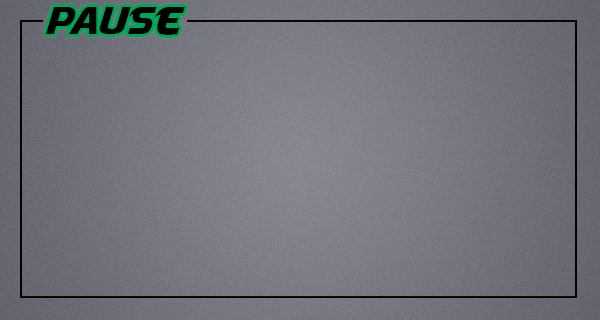
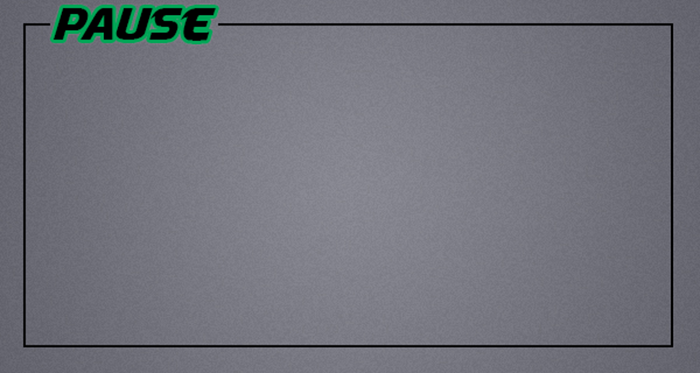
Media player in pause menu

diff --git a/Qt/GuessWho/MainWindow.cpp b/Qt/GuessWho/MainWindow.cpp
@@ -129,6 +129,17 @@ void MainWindow::gameWindow()
 
 	player1GameWindow = new GameWindow(this, gameLogic->getPlayer1Reference());
 	player2GameWindow = new GameWindow(this, gameLogic->getPlayer2Reference());
+	gameWindowCreate = true;
+
+	//connect media player
+	player1GameWindow->getActiveSongLabel()->setText(songNames.at(activeSong));
+	if (play == true)
+		player1GameWindow->getMuteButton()->setStyleSheet("background-image: url(./Photos/soundon.png);");
+	else
+		player1GameWindow->getMuteButton()->setStyleSheet("background-image: url(./Photos/soundoff.png);");
+	connect(player1GameWindow->getNextButton(), SIGNAL(clicked()), this, SLOT(nextSong()));
+	connect(player1GameWindow->getPrevButton(), SIGNAL(clicked()), this, SLOT(prevSong()));
+	connect(player1GameWindow->getMuteButton(), SIGNAL(clicked()), this, SLOT(playPause()));
 	
 	connect(this, SIGNAL(wKeyPressed()), player1GameWindow->getSideMenu()->getQuestionMenuBar(), SLOT(goUpTreeWidgetItem()));
 	connect(this, SIGNAL(sKeyPressed()), player1GameWindow->getSideMenu()->getQuestionMenuBar(), SLOT(goDownTreeWidgetItem()));
@@ -190,6 +201,7 @@ void MainWindow::returnToMenu() {
 		this->player2GameWindow->close();
 		delete player2GameWindow;
 		this->showMenuWindow();
+		gameWindowCreate = false;
 	}
 	else { //No
 		this->player1GameWindow->getPauseMenu()->show();
@@ -217,6 +229,8 @@ void MainWindow::nextSong()
 	}
 	songPlaylist.at(activeSong)->play();
 	menu->getActiveSongLabel()->setText(songNames.at(activeSong));
+	if(gameWindowCreate)
+		player1GameWindow->getActiveSongLabel()->setText(songNames.at(activeSong));
 }
 	
 void  MainWindow::prevSong()
@@ -228,6 +242,8 @@ void  MainWindow::prevSong()
 	}
 	songPlaylist.at(activeSong)->play();
 	menu->getActiveSongLabel()->setText(songNames.at(activeSong));
+	if (gameWindowCreate)
+		player1GameWindow->getActiveSongLabel()->setText(songNames.at(activeSong));
 }
 
 void MainWindow::playPause()
@@ -236,11 +252,29 @@ void MainWindow::playPause()
 	{
 		songPlaylist.at(activeSong)->play();
 		play = true;
+		connect(menu->getNextButton(), SIGNAL(clicked()), this, SLOT(nextSong()));
+		connect(menu->getPrevButton(), SIGNAL(clicked()), this, SLOT(prevSong()));
+		if (gameWindowCreate)
+		{
+			connect(player1GameWindow->getNextButton(), SIGNAL(clicked()), this, SLOT(nextSong()));
+			connect(player1GameWindow->getPrevButton(), SIGNAL(clicked()), this, SLOT(prevSong()));
+			player1GameWindow->getMuteButton()->setStyleSheet("background-image: url(./Photos/soundon.png);");
+		}
+		menu->getMuteButton()->setStyleSheet("background-image: url(./Photos/soundon.png);");
 	}
 	else
 	{
 		songPlaylist.at(activeSong)->stop();
 		play = false;
+		disconnect(menu->getNextButton(), SIGNAL(clicked()), this, SLOT(nextSong()));
+		disconnect(menu->getPrevButton(), SIGNAL(clicked()), this, SLOT(prevSong()));
+		if (gameWindowCreate)
+		{
+			disconnect(player1GameWindow->getNextButton(), SIGNAL(clicked()), this, SLOT(nextSong()));
+			disconnect(player1GameWindow->getPrevButton(), SIGNAL(clicked()), this, SLOT(prevSong()));
+			player1GameWindow->getMuteButton()->setStyleSheet("background-image: url(./Photos/soundoff.png);");
+		}
+		menu->getMuteButton()->setStyleSheet("background-image: url(./Photos/soundoff.png);");
 	}
 }
 
@@ -484,6 +518,7 @@ void MainWindow::gameOver(QString winner) {
 	player2GameWindow->close();
 	delete player1GameWindow;
 	delete player2GameWindow;
+	gameWindowCreate = false;
 
 	showMenuWindow();
 	QMessageBox::information(NULL, "Game over", "Le gagant est: " + winner, QMessageBox::Ok);

diff --git a/Qt/GuessWho/debug/moc_MediaPlayer.cpp b/Qt/GuessWho/debug/moc_MediaPlayer.cpp
@@ -21,8 +21,8 @@ QT_BEGIN_MOC_NAMESPACE
 QT_WARNING_PUSH
 QT_WARNING_DISABLE_DEPRECATED
 struct qt_meta_stringdata_MediaPlayer_t {
-    QByteArrayData data[3];
-    char stringdata0[23];
+    QByteArrayData data[1];
+    char stringdata0[12];
 };
 #define QT_MOC_LITERAL(idx, ofs, len) \
     Q_STATIC_BYTE_ARRAY_DATA_HEADER_INITIALIZER_WITH_OFFSET(len, \
@@ -31,12 +31,10 @@ struct qt_meta_stringdata_MediaPlayer_t {
     )
 static const qt_meta_stringdata_MediaPlayer_t qt_meta_stringdata_MediaPlayer = {
     {
-QT_MOC_LITERAL(0, 0, 11), // "MediaPlayer"
-QT_MOC_LITERAL(1, 12, 9), // "playPause"
-QT_MOC_LITERAL(2, 22, 0) // ""
+QT_MOC_LITERAL(0, 0, 11) // "MediaPlayer"
 
     },
-    "MediaPlayer\0playPause\0"
+    "MediaPlayer"
 };
 #undef QT_MOC_LITERAL
 
@@ -46,32 +44,21 @@ static const uint qt_meta_data_MediaPlayer[] = {
        7,       // revision
        0,       // classname
        0,    0, // classinfo
-       1,   14, // methods
+       0,    0, // methods
        0,    0, // properties
        0,    0, // enums/sets
        0,    0, // constructors
        0,       // flags
        0,       // signalCount
 
- // slots: name, argc, parameters, tag, flags
-       1,    0,   19,    2, 0x0a /* Public */,
-
- // slots: parameters
-    QMetaType::Void,
-
        0        // eod
 };
 
 void MediaPlayer::qt_static_metacall(QObject *_o, QMetaObject::Call _c, int _id, void **_a)
 {
-    if (_c == QMetaObject::InvokeMetaMethod) {
-        MediaPlayer *_t = static_cast<MediaPlayer *>(_o);
-        Q_UNUSED(_t)
-        switch (_id) {
-        case 0: _t->playPause(); break;
-        default: ;
-        }
-    }
+    Q_UNUSED(_o);
+    Q_UNUSED(_id);
+    Q_UNUSED(_c);
     Q_UNUSED(_a);
 }
 
@@ -97,17 +84,6 @@ void *MediaPlayer::qt_metacast(const char *_clname)
 int MediaPlayer::qt_metacall(QMetaObject::Call _c, int _id, void **_a)
 {
     _id = QWidget::qt_metacall(_c, _id, _a);
-    if (_id < 0)
-        return _id;
-    if (_c == QMetaObject::InvokeMetaMethod) {
-        if (_id < 1)
-            qt_static_metacall(this, _c, _id, _a);
-        _id -= 1;
-    } else if (_c == QMetaObject::RegisterMethodArgumentMetaType) {
-        if (_id < 1)
-            *reinterpret_cast<int*>(_a[0]) = -1;
-        _id -= 1;
-    }
     return _id;
 }
 QT_WARNING_POP

diff --git a/Qt/GuessWho/MediaPlayer.cpp b/Qt/GuessWho/MediaPlayer.cpp
@@ -3,7 +3,6 @@
 
 MediaPlayer::MediaPlayer(QWidget* parent) : QWidget(parent)
 {
-	play = true;
 	layout_mediaPlayer = new QHBoxLayout(this);
 	setLayout(layout_mediaPlayer);
 	setStyleSheet("background: transparent;");
@@ -15,48 +14,33 @@ MediaPlayer::MediaPlayer(QWidget* parent) : QWidget(parent)
 	mute->setFlat(true);
 	mute->setStyleSheet("background-image: url(./Photos/soundon.png);");
 	mute->setCursor(Qt::PointingHandCursor);
-	mute->setFixedSize(40, 40);
+	mute->setFixedSize(55, 55);
 
 	next = new QPushButton(this);
 	next->setFlat(true);
 	next->setStyleSheet("background-image: url(./Photos/next.png);");
 	next->setCursor(Qt::PointingHandCursor);
-	next->setFixedSize(40, 40);
+	next->setFixedSize(55, 55);
 
 	activeSongLabel = new QLabel(this);
 	activeSongLabel->setFont(QFont("Walkway Bold", 16));
 	activeSongLabel->setStyleSheet("background: transparent; color : white;");
 	activeSongLabel->setAlignment(Qt::AlignCenter);
-	activeSongLabel->setFixedWidth(350);
+	activeSongLabel->setFixedWidth(400);
 
 	prev = new QPushButton(this);
 	prev->setFlat(true);
 	prev->setStyleSheet("background-image: url(./Photos/prev.png);");
 	prev->setCursor(Qt::PointingHandCursor);
-	prev->setFixedSize(40, 40);
+	prev->setFixedSize(55, 55);
 
 	layout_mediaPlayer->addWidget(mute);
 	layout_mediaPlayer->addWidget(prev);
 	layout_mediaPlayer->addWidget(activeSongLabel);
 	layout_mediaPlayer->addWidget(next);
-
-	connect(mute, SIGNAL(clicked()), this, SLOT(playPause()));
 }
 
 MediaPlayer::~MediaPlayer()
 {
 }
 
-void MediaPlayer::playPause()
-{
-	if (play == true)
-	{
-		mute->setStyleSheet("background-image: url(./Photos/soundoff.png);");
-		play = false;
-	}
-	else 
-	{
-		mute->setStyleSheet("background-image: url(./Photos/soundon.png);");
-		play = true;
-	}
-}

diff --git a/Qt/GuessWho/TwoPlayersMenu.cpp b/Qt/GuessWho/TwoPlayersMenu.cpp
@@ -11,6 +11,7 @@ TwoPlayersMenu::~TwoPlayersMenu()
 
 void TwoPlayersMenu::createTwoPlayersMenu()
 {
+	setFixedWidth(620);
 	layout = new QGridLayout(this);
 	layout->setContentsMargins(0, 0, 0, 0);
 	layout->setSpacing(10);
@@ -18,26 +19,26 @@ void TwoPlayersMenu::createTwoPlayersMenu()
 
 	player1 = new QLineEdit(this);
 	player1->setStyleSheet("background: white;");
-	player1->setFont(QFont("Walkway Bold", 20));
+	player1->setFont(QFont("Walkway Bold", 18));
 	player1->setText("Joueur1");
 	player1->setFixedWidth(200);
 
 	player2 = new QLineEdit;
 	player2->setStyleSheet("background: white;");
-	player2->setFont(QFont("Walkway Bold", 20));
+	player2->setFont(QFont("Walkway Bold", 18));
 	player2->setText("Joueur2");
 	player2->setFixedWidth(200);
 
 	name1 = new QLabel("Nom du Joueur1", this);
-	name1->setFont(QFont("Walkway Bold", 20));
+	name1->setFont(QFont("Walkway Bold", 18));
 	name1->setStyleSheet("background: transparent; color : white");
 
 	name2 = new QLabel("Nom du Joueur2", this);
-	name2->setFont(QFont("Walkway Bold", 20));
+	name2->setFont(QFont("Walkway Bold", 18));
 	name2->setStyleSheet("background: transparent; color : white");
 
 	numGames = new QLabel("Nombre de parties", this);
-	numGames->setFont(QFont("Walkway Bold", 20));
+	numGames->setFont(QFont("Walkway Bold", 18));
 	numGames->setStyleSheet("background: transparent; color : white");
 
 	ok = new MenuButton(this, " Commencer");

diff --git a/Qt/GuessWho/PauseMenu.cpp b/Qt/GuessWho/PauseMenu.cpp
@@ -6,20 +6,22 @@ PauseMenu::PauseMenu(QWidget* parent)
 
 	pauseBackground = new QLabel(this);
 	QPixmap pause_Pix("./Photos/pauseMenu.png");
-	pauseBackground->setPixmap(pause_Pix.scaled(600, 320));
+	pauseBackground->setPixmap(pause_Pix.scaled(700, 373));
 
 	layout = new QGridLayout(this);
 	quitButton = new MenuButton(this, " Quitter");
 	resumeButton = new MenuButton(this, " Retourner au jeu");
 	cancelGameButton = new MenuButton(this, " Retourner au menu");
+	media_Player = new MediaPlayer(this);
 
 	this->setWindowFlags(Qt::WindowStaysOnTopHint | Qt::FramelessWindowHint);
 	layout->setAlignment(Qt::AlignCenter);
 	layout->setSpacing(0);
-	layout->addWidget(pauseBackground,0,0,5,1,Qt::AlignCenter);
-	layout->addWidget(resumeButton,1,0, Qt::AlignCenter);
-	layout->addWidget(cancelGameButton,2,0, Qt::AlignCenter);
-	layout->addWidget(quitButton,3,0, Qt::AlignCenter);
+	layout->addWidget(pauseBackground,0,0,10,1,Qt::AlignCenter);
+	layout->addWidget(resumeButton,3,0, Qt::AlignCenter);
+	layout->addWidget(cancelGameButton,4,0, Qt::AlignCenter);
+	layout->addWidget(quitButton,5,0, Qt::AlignCenter);
+	layout->addWidget(media_Player, 7, 0, Qt::AlignCenter);
 	this->setLayout(layout);
 	
 }

diff --git a/Qt/GuessWho/OnePlayerMenu.cpp b/Qt/GuessWho/OnePlayerMenu.cpp
@@ -12,6 +12,7 @@ OnePlayerMenu::~OnePlayerMenu()
 
 void OnePlayerMenu::createOnePlayerMenu()
 {
+	setFixedWidth(620);
 	layout = new QGridLayout(this);
 	layout->setContentsMargins(0, 0, 0, 0);
 	layout->setSpacing(10);
@@ -19,16 +20,16 @@ void OnePlayerMenu::createOnePlayerMenu()
 
 	player1 = new QLineEdit(this);
 	player1->setStyleSheet("background: white;");
-	player1->setFont(QFont("Walkway Bold", 20));
+	player1->setFont(QFont("Walkway Bold", 18));
 	player1->setText("Joueur1");
 	player1->setFixedWidth(200);
 
 	name1 = new QLabel("Nom du Joueur1", this);
-	name1->setFont(QFont("Walkway Bold", 20));
+	name1->setFont(QFont("Walkway Bold", 18));
 	name1->setStyleSheet("background: transparent; color : white");
 
 	numGames = new QLabel("Nombre de parties", this);
-	numGames->setFont(QFont("Walkway Bold", 20));
+	numGames->setFont(QFont("Walkway Bold", 18));
 	numGames->setStyleSheet("background: transparent; color : white");
 
 	ok = new MenuButton(this, " Commencer");

diff --git a/Qt/GuessWho/PauseMenu.h b/Qt/GuessWho/PauseMenu.h
@@ -5,6 +5,7 @@
 #include <QGridLayout>
 #include <QPushButton>
 #include "MenuButton.h"
+#include "MediaPlayer.h"
 
 class PauseMenu : public QWidget
 {
@@ -16,6 +17,7 @@ private:
 	MenuButton * resumeButton;
 	MenuButton * cancelGameButton;
 	QLabel *pauseBackground;
+	MediaPlayer *media_Player;
 
 signals :
 	void escapeKeyPressed();
@@ -28,5 +30,10 @@ public:
 	MenuButton * getQuitButton() { return quitButton; }
 	MenuButton * getResumeButton() { return resumeButton; }
 	MenuButton * getCancelGameButton() { return cancelGameButton; }
+	QPushButton* getNextButton() { return media_Player->getNextButton(); }
+	QPushButton* getPrevButton() { return media_Player->getPrevButton(); }
+	QPushButton * getMuteButton() { return media_Player->getMuteButton(); }
+	QLabel* getActiveSongLabel() { return media_Player->getActiveSongLabel(); }
+
 };
 

diff --git a/Qt/GuessWho/GameWindow.h b/Qt/GuessWho/GameWindow.h
@@ -58,4 +58,8 @@ public:
 	LowerBar* getLowerBar() { return lowerBar; }
 	CharacterGrid* getGrid() { return grid; }
 	bool getSelectMode() { return selectMode; }
+	QPushButton* getNextButton() { return pauseMenu->getNextButton(); }
+	QPushButton* getPrevButton() { return pauseMenu->getPrevButton(); }
+	QPushButton * getMuteButton() { return pauseMenu->getMuteButton(); }
+	QLabel* getActiveSongLabel() { return pauseMenu->getActiveSongLabel(); }
 };

diff --git a/Qt/GuessWho/MediaPlayer.h b/Qt/GuessWho/MediaPlayer.h
@@ -8,16 +8,12 @@ class MediaPlayer : public QWidget
 {
 	Q_OBJECT
 
-public slots:
-	void playPause();
-
 private:
 	QHBoxLayout * layout_mediaPlayer;
 	QPushButton *next;
 	QPushButton *prev;
 	QPushButton *mute;
 	QLabel *activeSongLabel;
-	bool play;
 
 public:
 	MediaPlayer(QWidget* parent);

diff --git a/Qt/GuessWho/MenuWindow.cpp b/Qt/GuessWho/MenuWindow.cpp
@@ -20,6 +20,8 @@ void MenuWindow::createMenuWindow()
 	setStyleSheet("background-image: url(./Photos/header_logo.png)");
 
 	layout = new QHBoxLayout(this);
+	layout->setContentsMargins(0, 0, 0, 0);
+	layout->setSpacing(0);
 
 	image = new QLabel(this);
 	QPixmap logo("./Photos/logo.png");

diff --git a/Qt/GuessWho/MainWindow.h b/Qt/GuessWho/MainWindow.h
@@ -77,6 +77,7 @@ private:
 	int activeSong;
 	bool secondPlayerIsBot;
 	bool play;
+	bool gameWindowCreate = false;
 	QString soundsFileExtension = ".wav";
 	QString defaultSongPath = "./Sounds/"; //Default path of the sosund effect
 	//Variables for storing the sound effects

diff --git a/Qt/GuessWho/MainMenu.cpp b/Qt/GuessWho/MainMenu.cpp
@@ -11,6 +11,7 @@ MainMenu::~MainMenu()
 
 void MainMenu::createMainMenu()
 {
+	setFixedWidth(620);
 	layout = new QVBoxLayout;
 	layout->setContentsMargins(0, 0, 0, 0);
 	layout->setSpacing(0);
